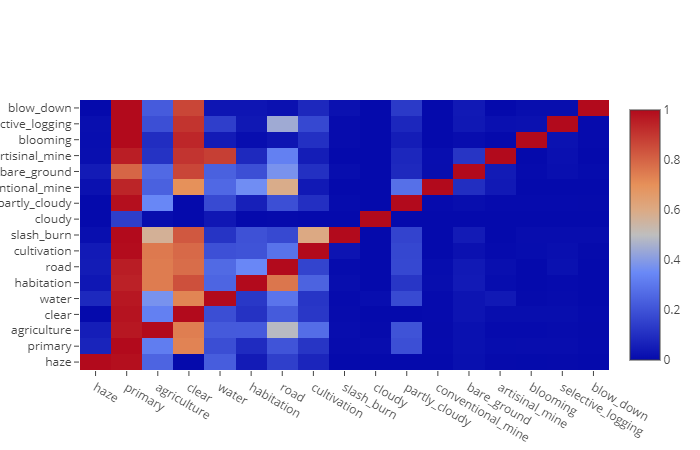
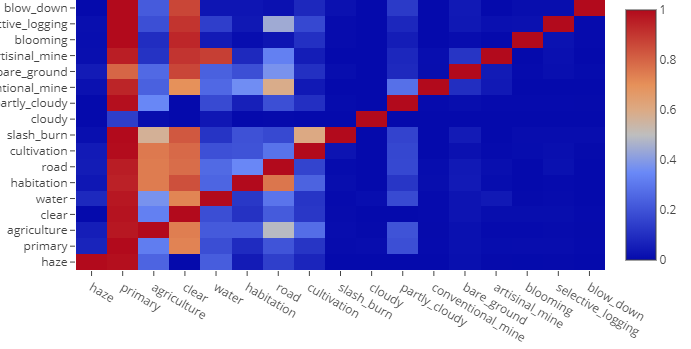
structural changes

diff --git a/projects/amazonia_image_satellite/amazonia_image_satellite.html b/projects/amazonia_image_satellite/amazonia_image_satellite.html
@@ -43,65 +43,64 @@
   </div>
 
   <section id="projects">
-  <div class="user-projects">
-        <div>
+    <div class="user-projects">
+      <div>
         <p style="text-align: justify;">
-          The problem consists in classify Amazonia satellite imagery in labels of climatic conditions and land use patterns. It was taken from kaggle which, in partnership with Plannet, made available more than 40,000 classified images and more than 60,000 images to a blind test. The images were divided in chips, i.e instead of use an image with 6600×2200 pixels - representing 19877.88 hectares - we are using chips with 256×256 pixels - representing 89.7187 hectares. Each chip should be classified on one of 4 labels about climatic conditions and none or more of 13 labels about land use patterns. Figure 1 shows some examples of this classifications. The chips can be classified with none labels about land use patterns if the climatic conditions cover the camera, as in case of 1st chip in Figure 1, the climatic condition is "cloudy" and it doesn't allow us to se the land use patterns. The possible classifications are: <br>
-          Climatic conditions: clear - when the sky is without any pertubation; cloudy; partly cloudy and haze <br>
+          The problem consists in classify Amazonia satellite imagery in labels of weather conditions and land use patterns. It was taken from kaggle which, in partnership with Plannet, made available more than 40,000 classified images and more than 60,000 images to a blind test. The images were divided in chips, i.e instead of use an image with 6600×2200 pixels - representing 19877.88 hectares - we are using chips with 256×256 pixels - representing 89.7187 hectares. Each chip should be classified on one of 4 labels about weatherconditions and none or more of 13 labels about land use patterns. Figure 1 shows some examples of this classifications. The chips can be classified with none labels about land use patterns if the weather conditions cover the camera, as in case of 1st chip in Figure 1, the weather condition is "cloudy" and it doesn't allow us to se the land use patterns. The possible classifications are: <br>
+          weather conditions: clear - when the sky is without any pertubation; cloudy; partly cloudy and haze <br>
           Land use Patterns: primary - when the image shows primary forest; agriculture; cultivation - which is like a familiar agriculture; road; water; habitation; bare ground; selective logging; artisinal mine; blooming; slash and burn; blow down and conventional mine.  
         </p>
       </div>
       <div>
-        <img
-        alt="Image Labels"
-        src="./class_labels.jpg"
-        />
-        <p style="text-align: center;">
-          Figure 1 - Chips and their labels <br>
-          Source: Kaggle
-        </p>
-      </div>
+          <img
+          alt="Image Labels"
+          src="./class_labels.jpg"
+          />
+          <p style="text-align: center; margin: 0px">
+            Figure 1 - Chips and their labels <br>
+            Source: Kaggle
+          </p>
+        </div>
 
-      <div class="contents-graph-left">
-        <p style="text-align: justify;">
-          The 17 labels aren't well distributed, Figure 2 shows the discrepancy among labels quantity. While 'primary' has appered in almost every image in our image set, labels such as 'artisinal mine', 'blooming', 'slash and burn', 'blow down' and 'conventional mine' when added together don't even represent 5% of image labels.
-        </p>
-      </div>
-      <div class="graph-right">
-        <img
-        alt="Labels Distribuition"
-        src="./distrib.PNG"
-        />
-        <p style="text-align: center;">
-          Figure 2 - Labels distribution <br>
-          Source: Own autorship
-        </p>
-      </div>
+        <div class="contents-graph-left">
+          <p style="text-align: justify; margin: 0px">
+            The 17 labels aren't well distributed, Figure 2 shows the discrepancy among labels quantity. While 'primary' has appered in almost every image in our image set, labels such as 'artisinal mine', 'blooming', 'slash and burn', 'blow down' and 'conventional mine' when added together don't even represent 5% of image labels.
+          </p>
+        </div>
+        <div class="graph-right">
+          <img
+          alt="Labels Distribuition"
+          src="./distrib.PNG"
+          />
+          <p style="text-align: center; margin: 0px">
+            Figure 2 - Labels distribution <br>
+            Source: Own autorship
+          </p>
+        </div>
 
-      <div class="images-right">
-        <img
-        alt="Labels Correlation"
-        src="./correlation.png"
-        />
-      </div>
-      <div class="contents-left" style="text-align: center;">
-        <p style="text-align: justify;">
-          Due to the low number of some labels a search for something that could compensate became necessary.  
-        </p>
-      </div>
+        <div>
+          <p style="text-align: justify;">
+            Due to the low number of some labels a search for something that could compensate it became necessary. Figure 3 shows the correlation between labels, i.e the percentile of images labeled on X class that also have the label Y. As we can see, the graph isn't mirrored, i.e a big number of appearance of a class with another  doesn't make the opposite true. We can see some obvious correlations like 'primary' with almost every other classes - once 'primary' appears in almost all images that is a thing that we could predict -  but we also can se some interesting correlations, like the high percentile of correlation between 'artisinal mine' and 'water', 'conventional mine' and 'road' and 'slash and burn' with 'agriculture' and 'cultivation'. This correlations are interesting because they can help us to compensate the lack of examples that we have to give to the deep learning networks.    
+          </p>
+        </div>
 
-      <div class="images-left">
-        <img
-        alt="Labels Graph"
-        src="./grafo_labels.png"
-        />
-      </div>
-      <div class="contents-right" style="text-align: center;">
-        <p style="text-align: justify;">
-          Description.
-        </p>
-      </div>
+        <div class="graph-left" style="width: 65%">
+          <img 
+          alt="Labels Correlation"
+          src="./correlation.png"
+          />
+           <p style="text-align: center; margin: 0px">
+            Figure 3 - Labels correlation map <br>
+            Source: Own autorship
+          </p>
+        </div>
 
+        <div>
+          <p style="text-align: justify;">
+            In order to explore more the relationships that could be helpful for deeplearning networks, the graph in Figure 4 was created. Each node represents a label - excluding weather condition labels - and each edge represents one time that two labels appeared together - bold edges means that two labels appears together in a large set of images whereas if two nodes don't have an edge, so their labels never appeared together. 
+          </p>
+        </div>      
+<!--
       <div class="images-right">
         <img
         alt="Results Graph"
@@ -113,10 +112,11 @@
           Description.
         </p>
       </div>
+-->
   </div>
-</section>
+  </section>
   <footer class="footer">
-	<p>&copy; by Paula Giovanna Rodrigues, 2020</p>
-  </footer>
+   <p>&copy; by Paula Giovanna Rodrigues, 2020</p>
+ </footer>
 </body>
 </html>

diff --git a/assets/css/project.css b/assets/css/project.css
@@ -29,6 +29,31 @@
     margin: auto;
 }
 
+.part-project {
+    margin: 20px 0
+}
+
+.part-project img {
+    max-width: 100%;
+    height: auto;
+    border-radius: 5px
+}
+
+.part-project h5 {
+    margin: 0
+}
+
+.part-project li {
+    color: #1488CC;
+    font-size: 1.1rem
+}
+
+.part-project p {
+    margin-right: 5px
+}
+
+
+
 
 @media only screen and (min-width:550px) {
     .graph-right {
